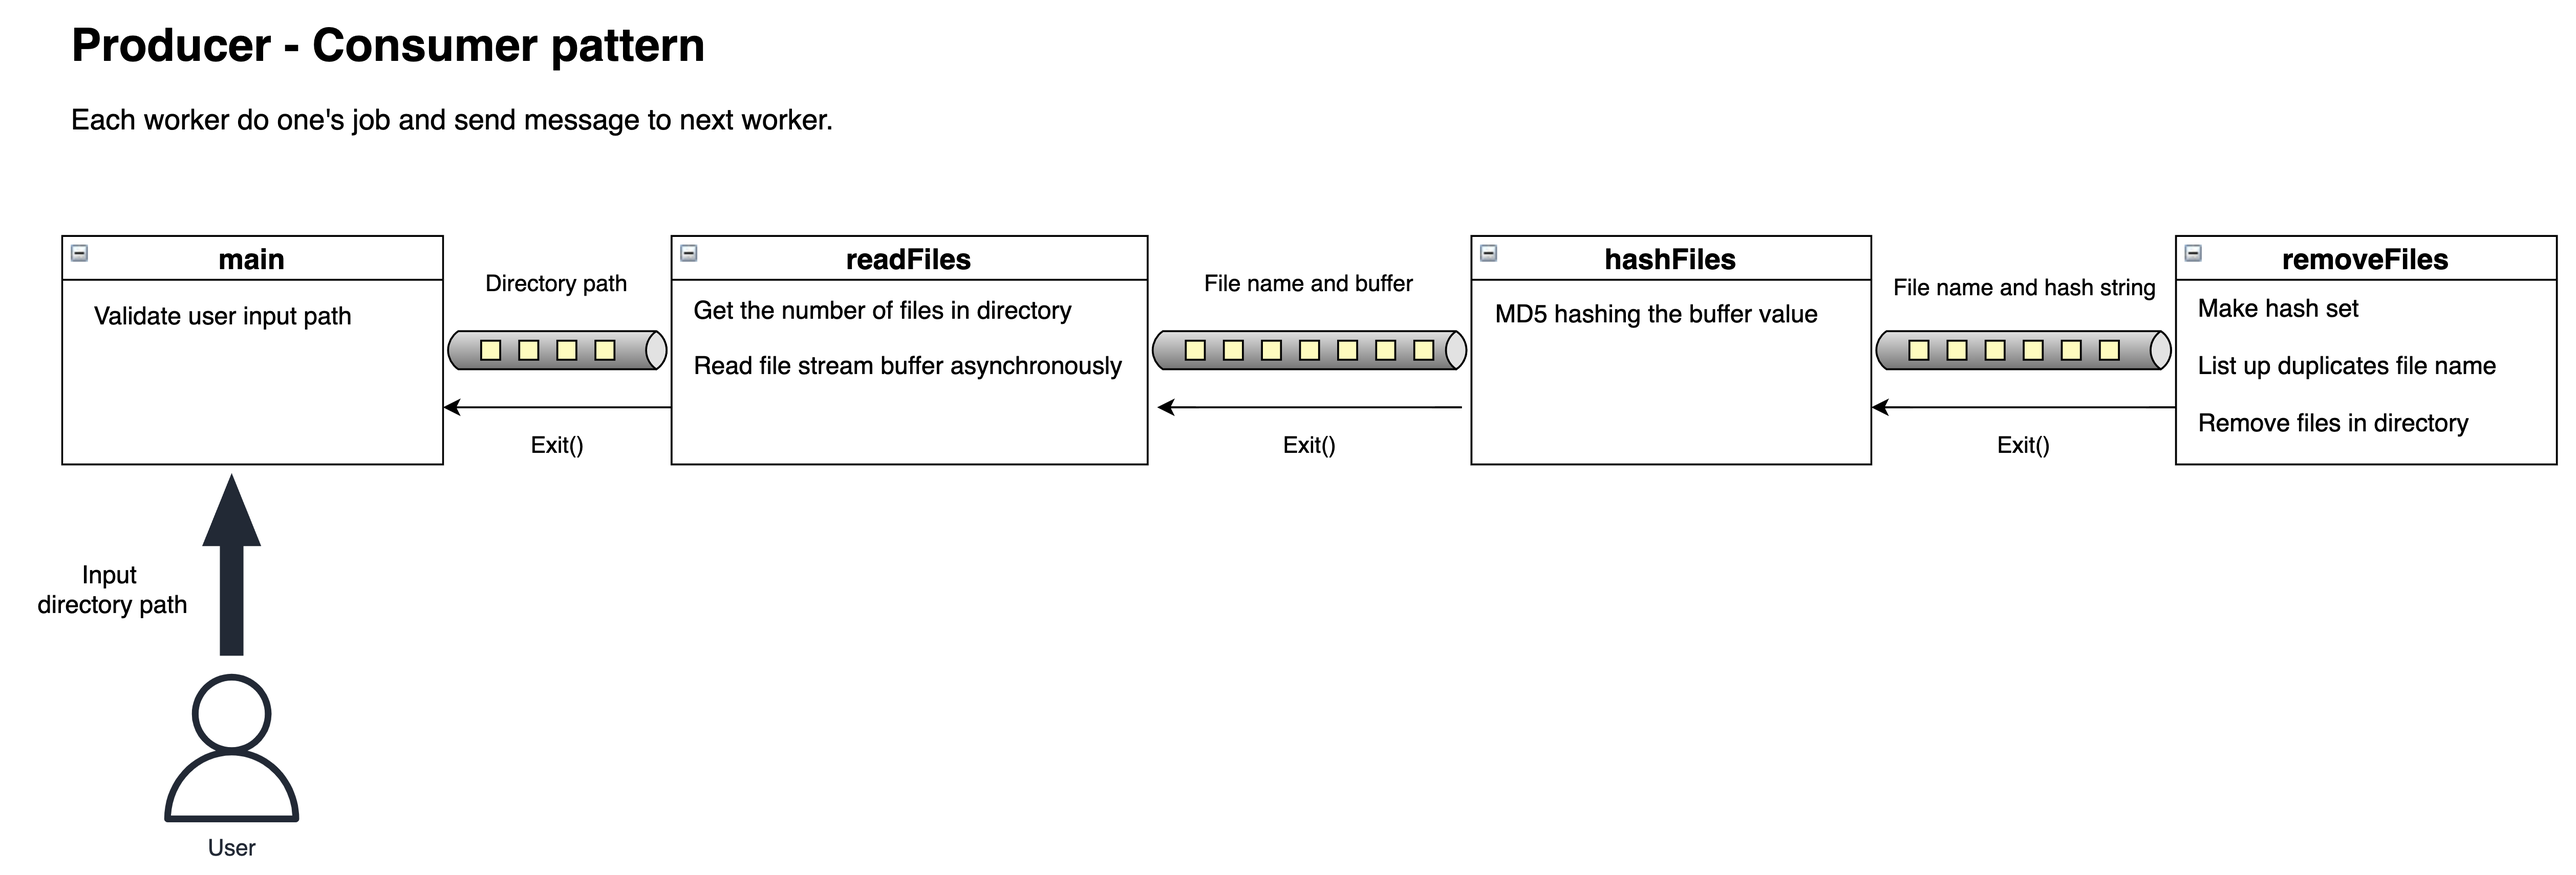
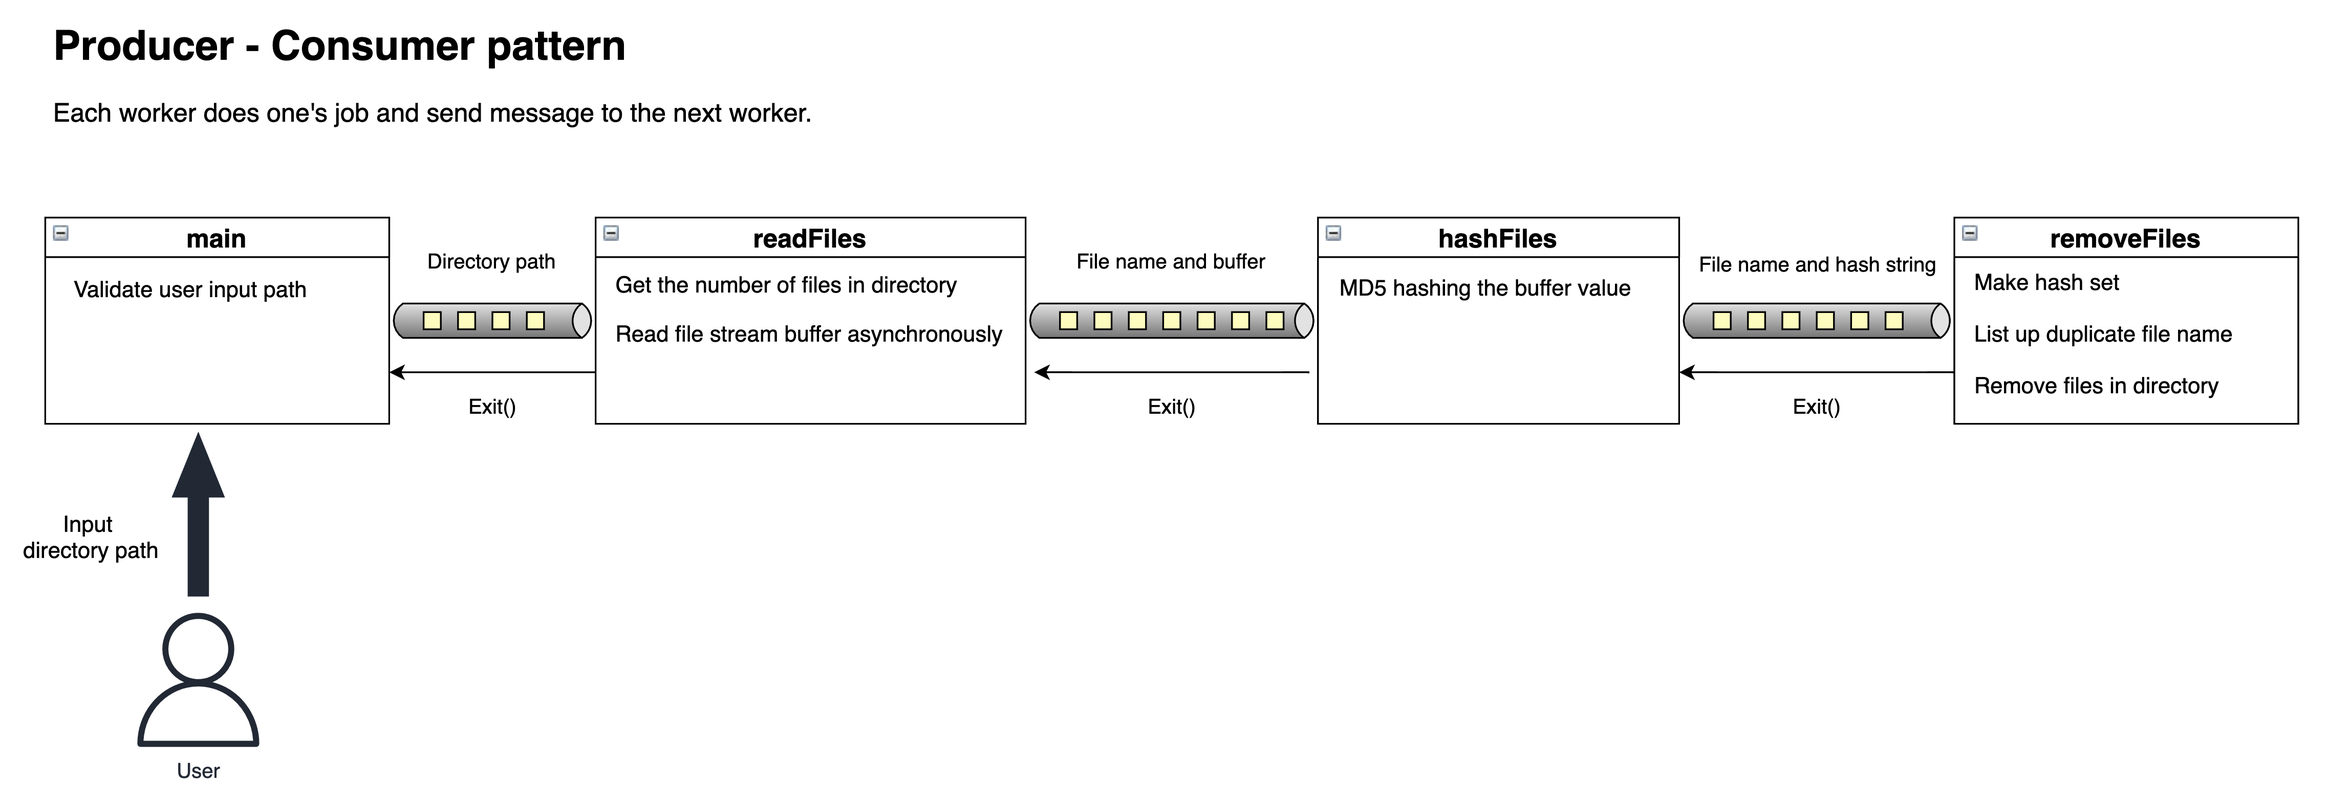
chore: Update typo of README.md and architecture diagram

diff --git a/README.md b/README.md
@@ -16,7 +16,7 @@ Remove duplicate files by inputting directory path
 $ npm run build
 $ cd dist
 ```
-#### (2) Copy path of directory where duplicates file exist
+#### (2) Copy the path of directory where duplicate files exist
 #### (3) Execute command below
 ```bash
 $ node main.js [your-directory-path]
